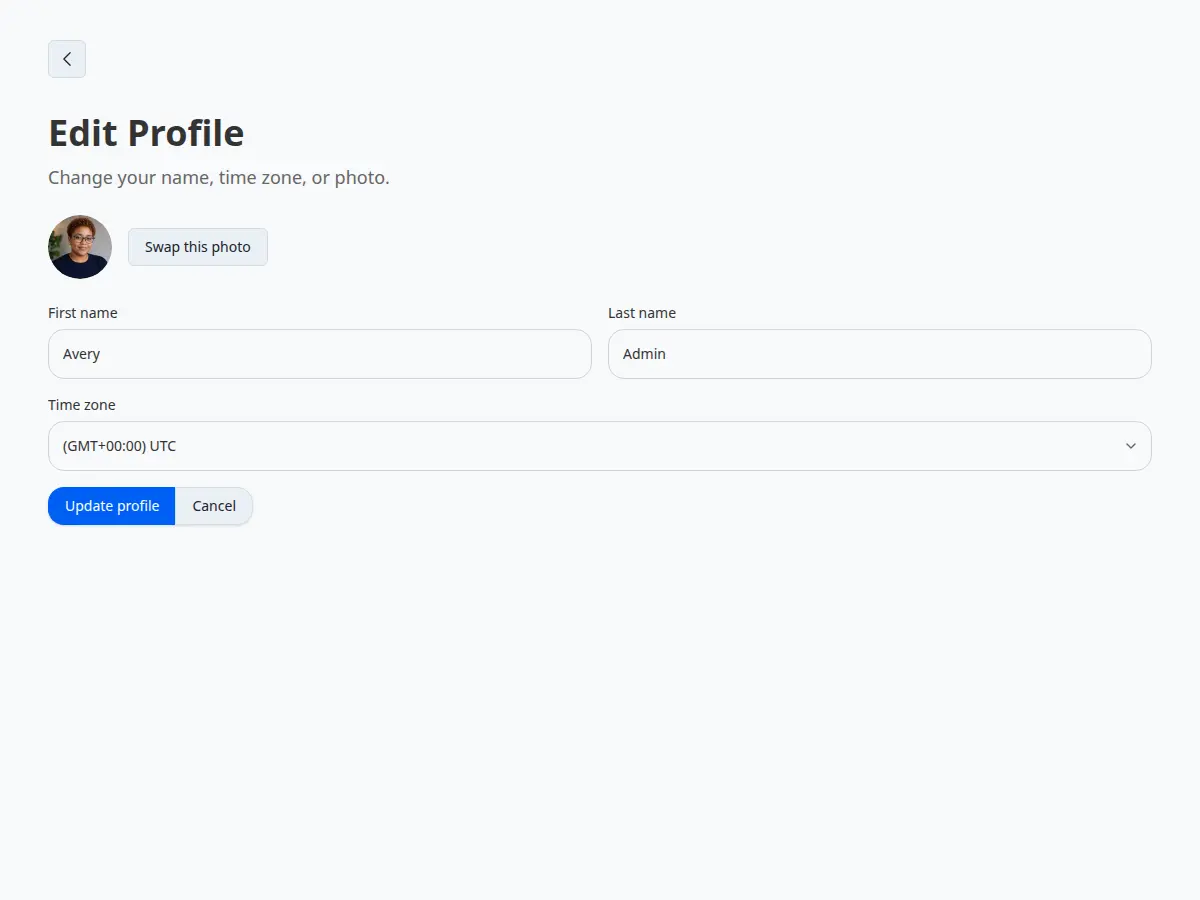
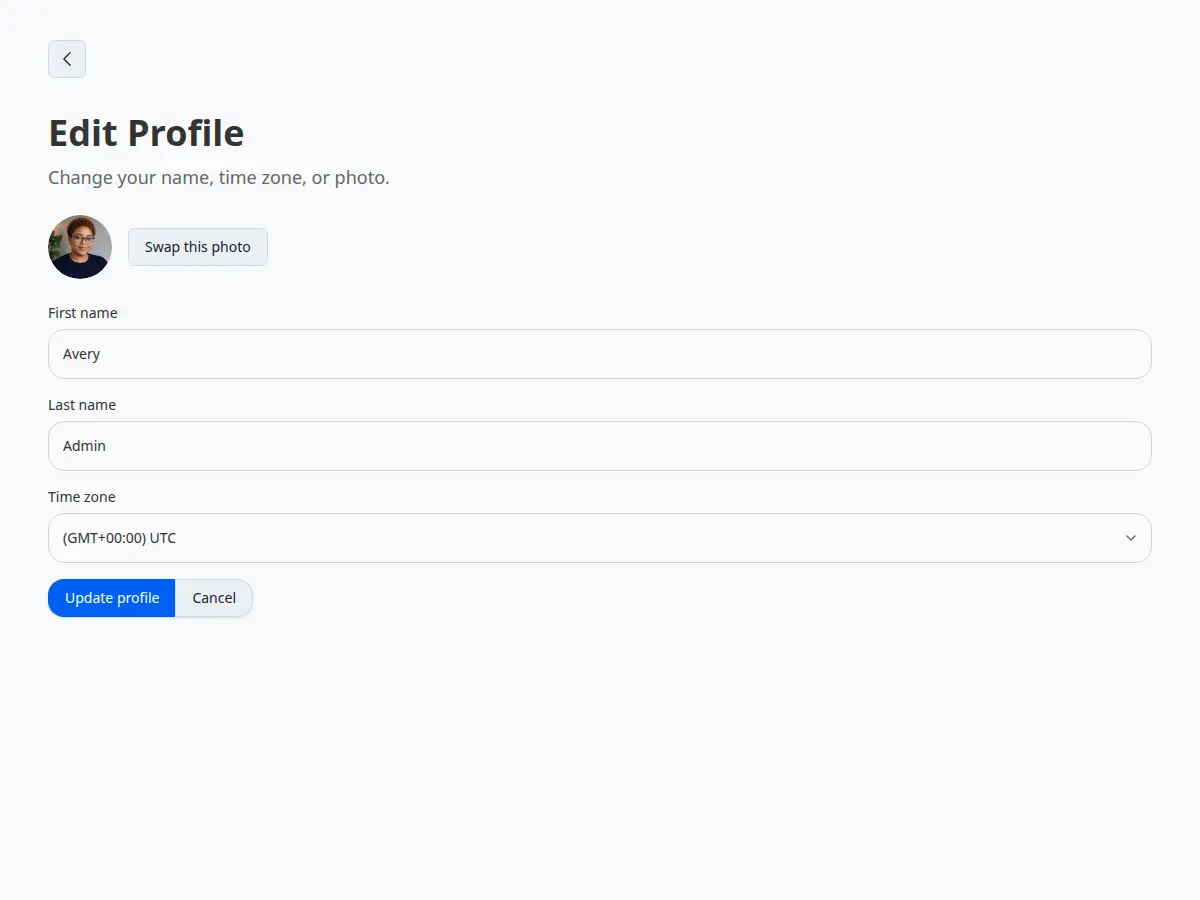
fix: stack profile edit fields as full-width rows
Never put form fields in columns. First name, last name, and time
zone each get their own row. Taste pass otherwise stays.

Changed region(s): [[0.0308, 0.5289, 0.2158, 0.6844], [0.0308, 0.4356, 0.1233, 0.4978], [0.4933, 0.3422, 0.555, 0.4044]]

diff --git a/test/dummy/test/integration/profile_flow_test.rb b/test/dummy/test/integration/profile_flow_test.rb
@@ -164,7 +164,9 @@ class ProfileFlowTest < ActionDispatch::IntegrationTest
     assert_includes response.body, "Change your name, time zone, or photo."
     refute_includes response.body, "Tidy up"
     refute_includes response.body, "The photo lives here too."
-    assert_includes response.body, "md:grid-cols-2"
+    refute_includes response.body, "md:grid-cols-2"
+    assert_includes response.body, "user_first_name"
+    assert_includes response.body, "user_last_name"
     assert_includes response.body, "Update profile"
     assert_includes response.body, "Cancel"
     assert_includes response.body, recording_studio_attachable.recording_attachment_upload_path(recording)

diff --git a/test/gem_template_test.rb b/test/gem_template_test.rb
@@ -35,7 +35,7 @@ class RecordingStudioUserTest < Minitest::Test
     refute_includes show, "Tidy up"
     refute_includes edit, "The photo lives here too."
     assert_includes edit, "Change your name, time zone, or photo."
-    assert_includes edit, "FlatPack::Grid::Component"
+    refute_includes edit, "FlatPack::Grid::Component"
     assert_includes edit, "FlatPack::ButtonGroup::Component"
     assert_includes edit, "FlatPack::TextInput::Component"
     assert_includes edit, "FlatPack::Select::Component"

diff --git a/CHANGELOG.md b/CHANGELOG.md
@@ -18,7 +18,7 @@ and this project adheres to [Semantic Versioning](https://semver.org/spec/v2.0.0
 ### Changed
 - Profile PageNav right slot is empty. Profile is owner-only: Accessible still records the first owner with `bootstrap_owner_access!`, but show/edit no longer render `recording_access_management_link` or any grant/invite control.
 - Dummy overrides Attachable's attachment show so only core `recording_studio/default_layout` PageNav renders. Attachable 0.4.0 has no config to hide its in-view PageNav; the host template keeps the replace UI and leaves the right slot empty.
-- Profile show puts **Edit** in the PageTitle actions slot. Edit uses Flatpack Grid for first and last name, and ButtonGroup for Update profile / Cancel. Subtitles drop the cute lines: "Your name, email, and photo." and "Change your name, time zone, or photo."
+- Profile show puts **Edit** in the PageTitle actions slot. Edit stacks First name, Last name, and Time zone as full-width rows, and groups Update profile / Cancel in a ButtonGroup. Subtitles drop the cute lines: "Your name, email, and photo." and "Change your name, time zone, or photo."
 
 ### Upgrade notes
 - Enable Attachable on Profile only, using the `.to` mixin and the image-only options above. Do not enable it on People.

diff --git a/test/dummy/README.md b/test/dummy/README.md
@@ -7,7 +7,7 @@ This Rails application demonstrates RecordingStudioUser in a host application.
 - One profile image is an Attachable child of the Profile recording. Dummy mounts Attachable and Active Storage.
 - Workspace remains the host-owned bucket. Access-controlled, read-only reporting on sitewide users is still mounted.
 - Signed-in pages use Recording Studio's default layout (`RecordingStudio::UsesDefaultLayout`). Devise keeps `layouts/application`. Dummy does not own `recording_studio/default_layout`.
-- Profile show/edit are PageNav back/close only. The right slot stays empty. There is no Access control, sidebar Sign out, or Root Switchable on those screens. Show puts Edit in the page title. Edit uses a two-column name grid and a grouped Update / Cancel pair.
+- Profile show/edit are PageNav back/close only. The right slot stays empty. There is no Access control, sidebar Sign out, or Root Switchable on those screens. Show puts Edit in the page title. Edit stacks each field on its own row and groups Update / Cancel.
 - The photo replace screen uses the same core layout. Dummy overrides Attachable's attachment show so that gem's in-view PageNav is not stacked on top of core's.
 
 ## Quick Start

diff --git a/README.md b/README.md
@@ -139,7 +139,7 @@ Flash notices come from the host layout. Profile show does not render `notice` a
 
 The profile PageNav right slot stays empty. Profile is not a place to grant other actors. First-owner bootstrap is how the owner is recorded; do not put `recording_access_management_link` on these screens.
 
-Show puts **Edit** in the PageTitle actions slot and keeps **Swap this photo** next to the avatar. Edit lays first and last name in a Flatpack Grid and groups Update profile / Cancel in a ButtonGroup. Subtitles stay plain: "Your name, email, and photo." and "Change your name, time zone, or photo."
+Show puts **Edit** in the PageTitle actions slot and keeps **Swap this photo** next to the avatar. Edit stacks First name, Last name, and Time zone as full-width rows and groups Update profile / Cancel in a ButtonGroup. Subtitles stay plain: "Your name, email, and photo." and "Change your name, time zone, or photo."
 
 ## Users administration
 
